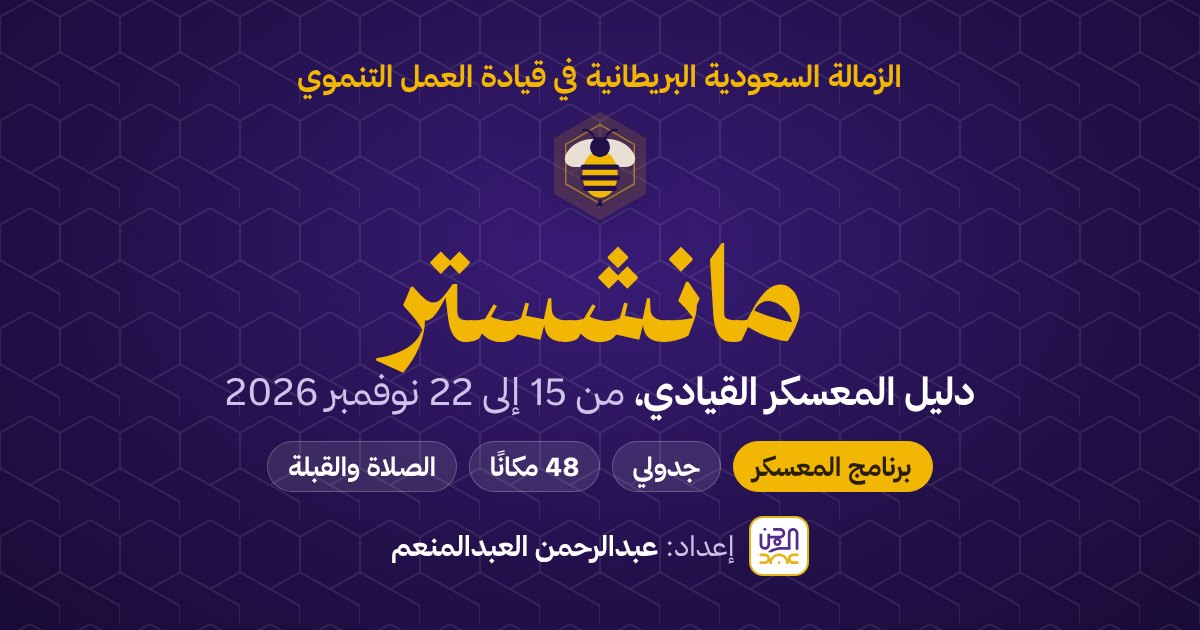
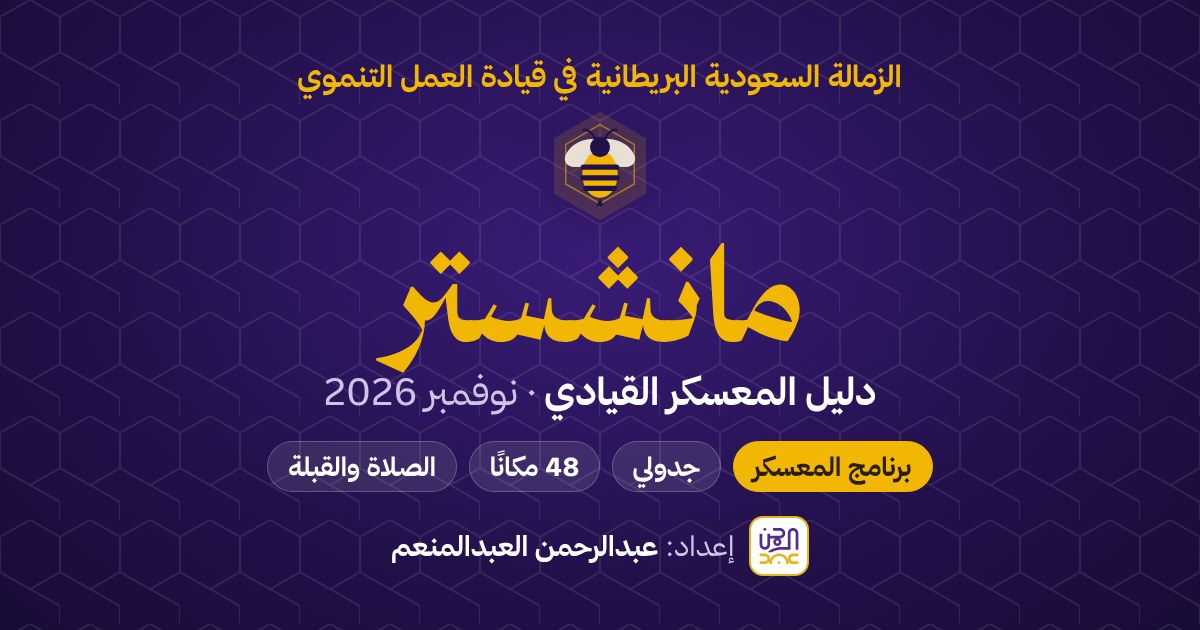
رأس الصفحة: مدة المعسكر صريحة، وملخص رحلتك، ورابط رحلتي؛ وغلاف جديد
Claude-Session: https://claude.ai/code/session_01QH7mzZJjC2cRmrbhNPuopA

Changed region(s): [[0.185, 0.6032, 0.8325, 0.6635]]

diff --git a/index.html b/index.html
@@ -7,9 +7,9 @@
 <meta name="description" content="دليل تفاعلي للمشاركين في الزمالة السعودية البريطانية: برنامج المعسكر وجدولي والأماكن والصلاة في مانشستر.">
 <meta property="og:type" content="website">
 <meta property="og:title" content="دليل مانشستر · الزمالة السعودية البريطانية">
-<meta property="og:description" content="برنامج المعسكر، وجدولك الشخصي، و48 مكانًا مختارًا، ومواقيت الصلاة والقبلة · 15–22 نوفمبر 2026">
-<meta property="og:image" content="https://alabdmn3m.github.io/manchester/og.jpg">
-<meta property="og:image:secure_url" content="https://alabdmn3m.github.io/manchester/og.jpg">
+<meta property="og:description" content="برنامج المعسكر، وجدولك الشخصي، و48 مكانًا مختارًا، ومواقيت الصلاة والقبلة، ويتكيّف مع موعد رحلتك · المعسكر القيادي، نوفمبر 2026">
+<meta property="og:image" content="https://alabdmn3m.github.io/manchester/og.jpg?v=2">
+<meta property="og:image:secure_url" content="https://alabdmn3m.github.io/manchester/og.jpg?v=2">
 <meta property="og:image:type" content="image/jpeg">
 <meta property="og:site_name" content="دليل مانشستر للزمالة">
 <meta property="og:image:width" content="1200">
@@ -683,6 +683,11 @@ footer{padding-bottom:calc(100px + env(safe-area-inset-bottom,0px))}
 .pz-note{font-size:.875rem;color:var(--muted);margin-top:10px}
 /* live */
 .live:empty{display:none}
+.htrip{margin-top:12px;display:flex;flex-wrap:wrap;gap:8px 12px;align-items:center;background:rgba(255,255,255,.08);border:1px solid rgba(255,255,255,.18);border-radius:14px;padding:10px 14px;color:var(--hero-ink)}
+.htrip .ico{width:18px;height:18px;color:var(--gold);flex:none}.htrip b{color:var(--gold)}.htrip span{flex:1;min-width:200px}
+.htrip button{border:0;background:var(--gold);color:var(--on-gold);border-radius:999px;padding:6px 14px;font-weight:700;cursor:pointer}
+.htrip button.ghost{background:transparent;color:var(--hero-ink);border:1px solid rgba(255,255,255,.35)}
+.trip-ok{color:var(--ok,#1a7f4b);font-weight:700}
 .grp.onow{display:flex;justify-content:space-between;align-items:center;background:var(--ok-bg);color:var(--ok);border-radius:12px;padding:8px 14px;font-weight:700}
 .live{margin-top:12px;display:flex;flex-wrap:wrap;gap:8px 16px;align-items:center;background:rgba(242,183,5,.14);border:1px solid rgba(242,183,5,.5);border-radius:14px;padding:10px 14px;color:var(--hero-ink)}
 .live .pulse{width:10px;height:10px;border-radius:50%;background:#3ddc84;box-shadow:0 0 0 0 rgba(61,220,132,.6);animation:pl 1.8s infinite}
@@ -762,7 +767,7 @@ footer{padding-bottom:calc(100px + env(safe-area-inset-bottom,0px))}
     <div class="hero-top">
       <div>
         <div class="eyebrow"><b>الزمالة السعودية البريطانية في قيادة العمل التنموي</b><span>المعسكر القيادي</span></div>
-        <h1 class="title">مانشستر<small>دليلنا لأسبوع في مدينة النحلة العاملة، من <span class="num">15</span> إلى <span class="num">22</span> نوفمبر <span class="num">2026</span></small></h1>
+        <h1 class="title">مانشستر<small>دليلنا في مدينة النحلة العاملة. المعسكر من <span class="num">15</span> إلى <span class="num">22</span> نوفمبر <span class="num">2026</span>، وموعد رحلتك تختاره أدناه.</small></h1>
         <a class="byline" href="#sign" aria-label="إعداد: عبدالرحمن العبدالمنعم"><span class="lgtile" aria-hidden="true"><svg viewBox="318 297 444 413"><use href="#lg-art"/></svg></span><span class="by-t"><small>إعداد</small><b>عبدالرحمن العبدالمنعم</b></span></a>
       </div>
       <svg class="bee" viewBox="0 0 200 200" role="img" aria-label="نحلة مانشستر العاملة، رمز المدينة">
@@ -783,6 +788,7 @@ footer{padding-bottom:calc(100px + env(safe-area-inset-bottom,0px))}
       <span class="fact">التوقيت: متأخر عن الرياض <strong class="num">3</strong> ساعات</span>
       <span class="fact">بين السكن والتدريب: <strong>دقيقة مشيًا</strong></span>
     </div>
+    <div class="htrip" id="tripHero"></div>
     <div class="live" id="live" aria-live="polite"></div>
 
   </div>
@@ -2563,7 +2569,7 @@ const PICS = GAL.pics, BLOBS = GAL.blobs, PCRED = GAL.cred;
   }
 
   /* ── رحلتي UI ── */
-  const TF = { open: false, err: '' };
+  const TF = { open: false, err: '', note: '' };
   const dName = d => { const D = TRIP_DAYS.find(x => x.d === d); return D ? `${D.name} ${d}` : String(d); };
   const dayOpts = sel => ORDER.map(i => { const D = TRIP_DAYS[i]; return `<option value="${D.d}"${D.d === sel ? ' selected' : ''}>${D.name} ${D.d} نوفمبر</option>`; }).join('');
   const viaOpts = sel => Object.entries(VIA).map(([k,v]) => `<option value="${k}"${k === sel ? ' selected' : ''}>${v.l}</option>`).join('');
@@ -2572,7 +2578,7 @@ const PICS = GAL.pics, BLOBS = GAL.blobs, PCRED = GAL.cred;
     const T = TRIP || { a: { d: 15, t: '', v: 'man' }, b: { d: 22, t: '', v: 'man' } };
     const sum = TRIP ? `الوصول <b>${dName(TRIP.a.d)} · ${ltr(TRIP.a.t)}</b> (${VIA[TRIP.a.v].l})، والمغادرة <b>${dName(TRIP.b.d)} · ${ltr(TRIP.b.t)}</b> (${VIA[TRIP.b.v].l})`
       : 'أدخل موعدي وصولك ومغادرتك ليتكيّف معك الدليل: وقتك الحر يوم الوصول، وموعد خروجك من الفندق يوم العودة، والأيام التي تقضيها في مانشستر.';
-    let h = `<div class="trip-h">${icon('i-plane')}<b>رحلتي</b><span class="trip-s">${sum}</span>${TF.open ? '' : `<button class="${TRIP ? 'g' : 'p'}" id="tripEdit">${TRIP ? 'تعديل' : 'أدخل رحلتي'}</button>`}</div>`;
+    let h = `<div class="trip-h">${icon('i-plane')}<b>رحلتي</b><span class="trip-s">${sum}</span>${TF.open ? '' : `<button class="${TRIP ? 'g' : 'p'}" id="tripEdit">${TRIP ? 'تعديل' : 'أدخل رحلتي'}</button>`}${!TF.open && TRIP ? '<button class="g" id="tripLink">رابط رحلتي</button>' : ''}</div>${!TF.open && TRIP ? `<p class="muted" id="tripMsg" style="margin:0">${TF.note || 'محفوظة على هذا الجهاز وفي هذا المتصفح. لتفتحها من متصفح أو جهاز آخر استعمل «رابط رحلتي».'}</p>` : ''}`;
     if (TF.open) h += `<div class="trip-f"><div><b>الوصول</b><div class="row"><label><small>اليوم</small><select id="taD">${dayOpts(T.a.d)}</select></label><label><small>وقت هبوط الطائرة</small><input id="taT" type="time" value="${T.a.t}"></label><label><small>عبر</small><select id="taV">${viaOpts(T.a.v)}</select></label></div></div>
       <div><b>المغادرة</b><div class="row"><label><small>اليوم</small><select id="tbD">${dayOpts(T.b.d)}</select></label><label><small>وقت إقلاع الطائرة</small><input id="tbT" type="time" value="${T.b.t}"></label><label><small>من</small><select id="tbV">${viaOpts(T.b.v)}</select></label></div></div></div>
       <p class="muted" style="margin:0">اكتب وقت هبوط الطائرة ووقت إقلاعها بتوقيت بريطانيا. نحتسب من الهبوط حتى الفندق نحو ساعتين في مانشستر، ونحو 4 ساعات ونصف عبر لندن. ويوم العودة نحتسب 3 ساعات في المطار قبل الإقلاع، ومن يسافر عبر لندن يحجز تذكرة القطار مسبقًا. يُحفظ على جوالك فقط.</p>
@@ -2582,12 +2588,33 @@ const PICS = GAL.pics, BLOBS = GAL.blobs, PCRED = GAL.cred;
     on('tripEdit', () => { TF.open = true; TF.err = ''; renderTrip(); });
     on('tripCancel', () => { TF.open = false; TF.err = ''; renderTrip(); });
     on('tripClear', () => setTrip(null));
+    on('tripLink', shareTrip);
     on('tripSave', () => {
       const v = { a: { d: +$('#taD').value, t: $('#taT').value, v: $('#taV').value }, b: { d: +$('#tbD').value, t: $('#tbT').value, v: $('#tbV').value } };
       if (!okT(v.a.t) || !okT(v.b.t)){ TF.err = 'اكتب وقت الهبوط ووقت الإقلاع.'; renderTrip(); return; }
       if (v.b.d * 1440 + tm(v.b.t) <= v.a.d * 1440 + tm(v.a.t)){ TF.err = 'موعد المغادرة يجب أن يكون بعد موعد الوصول.'; renderTrip(); return; }
       setTrip(v);
     });
+  }
+  const tripCode = v => `${v.a.d}-${v.a.t.replace(':','')}-${v.a.v}.${v.b.d}-${v.b.t.replace(':','')}-${v.b.v}`;
+  function tripFromHash(){
+    const m = location.hash.match(/trip=(\d{1,2})-(\d{4})-(man|lon)\.(\d{1,2})-(\d{4})-(man|lon)/); if (!m) return null;
+    const t4 = s => s.slice(0,2) + ':' + s.slice(2);
+    const v = { a: { d: +m[1], t: t4(m[2]), v: m[3] }, b: { d: +m[4], t: t4(m[5]), v: m[6] } };
+    const ok = x => x.d >= 13 && x.d <= 24 && okT(x.t) && tm(x.t) < 1440;
+    return ok(v.a) && ok(v.b) && v.b.d * 1440 + tm(v.b.t) > v.a.d * 1440 + tm(v.a.t) ? v : null;
+  }
+  const tripURL = () => (/github\.io$/.test(location.hostname) ? location.origin + location.pathname : 'https://alabdmn3m.github.io/manchester/') + '#trip=' + tripCode(TRIP);
+  async function shareTrip(){
+    const url = tripURL(), msg = $('#tripMsg');
+    try { if (navigator.share){ await navigator.share({ title: 'رحلتي في دليل مانشستر', url }); return; } } catch(e){ if (e && e.name === 'AbortError') return; }
+    try { await navigator.clipboard.writeText(url); if (msg) msg.textContent = 'نُسخ رابط رحلتك. احفظه في المفضلة أو أرسله لنفسك، وافتحه من أي متصفح أو جهاز.'; }
+    catch(e){ if (msg) msg.innerHTML = `انسخ هذا الرابط واحفظه: <bdi dir="ltr" style="word-break:break-all">${esc(url)}</bdi>`; }
+  }
+  function renderTripHero(){
+    const el = $('#tripHero'); if (!el) return;
+    el.innerHTML = TRIP ? `${icon('i-plane')}<span>رحلتك: من <b>${dName(TRIP.a.d)} · ${ltr(TRIP.a.t)}</b> إلى <b>${dName(TRIP.b.d)} · ${ltr(TRIP.b.t)}</b></span><button class="ghost" data-trip>تعديل</button>`
+      : `${icon('i-plane')}<span>أدخل موعدَي وصولك ومغادرتك ليتكيّف معك الدليل: وقتك الحر، والأيام، والعدّ التنازلي.</span><button data-trip>أدخل رحلتك</button>`;
   }
   function normSel(){
     if (!dayVis(state.sel)) state.sel = VIS()[0];
@@ -2596,7 +2623,8 @@ const PICS = GAL.pics, BLOBS = GAL.blobs, PCRED = GAL.cred;
     else if (PZ.start < TRIP_DAYS[PZ.day].prog.free) PZ.start = TRIP_DAYS[PZ.day].prog.free;
   }
   function setTrip(v){
-    TRIP = v; store.set('mcr-trip', v); applyTrip(); TF.open = false; TF.err = ''; normSel();
+    TRIP = v; store.set('mcr-trip', v); applyTrip(); TF.open = false; TF.err = ''; normSel(); renderTripHero(); setCountdown(new Date());
+    if (/trip=/.test(location.hash)) history.replaceState(null, '', location.pathname + location.search);
     fillDayf(); renderDays(); renderPanel(); renderPrayers(); render(); renderPZ(); renderLive(); renderMine(); renderTrip(); bidiFix($('#trip'));
   }
   document.addEventListener('click', e => { const b = e.target.closest('[data-trip]'); if (!b) return; TF.open = true; renderTrip(); goTo('mine'); });
@@ -2684,7 +2712,8 @@ const PICS = GAL.pics, BLOBS = GAL.blobs, PCRED = GAL.cred;
   $('#mapBtn').onclick = () => { const ex = $('#explore'); const closed = ex.classList.toggle('map-closed'); $('#mapBtn').setAttribute('aria-expanded', !closed); $('#mapBtn span').textContent = closed ? 'اعرض الخريطة' : 'أخفِ الخريطة'; };
   $('#mvCenter').onclick = () => setView('center'); $('#mvWide').onclick = () => setView('wide');
   bidiFix(document.querySelector('.page'));
-  normSel(); renderTrip(); renderDays(); renderPanel(); renderBase(); renderCats(); render();
+  { const h = tripFromHash(); if (h){ TRIP = h; store.set('mcr-trip', h); applyTrip(); TF.note = 'حُمّلت رحلتك من الرابط وحُفظت على هذا الجهاز.'; history.replaceState(null, '', location.pathname + location.search); } }
+  setCountdown(new Date()); normSel(); renderTrip(); renderTripHero(); renderDays(); renderPanel(); renderBase(); renderCats(); render();
   renderAbout(); renderPZ(); renderLive(); saveSchCount(); wireNav(); setInterval(() => { if (!DEMO) renderLive(); }, 60000);
   { const lv = (location.hash.match(/live=(\d+)-(\d+):(\d+)/) || []); if (lv.length) { DEMO = { y:2026, mo:11, d:+lv[1], m: +lv[2]*60 + +lv[3] }; renderLive(); } }
   renderMine(); initSync();
